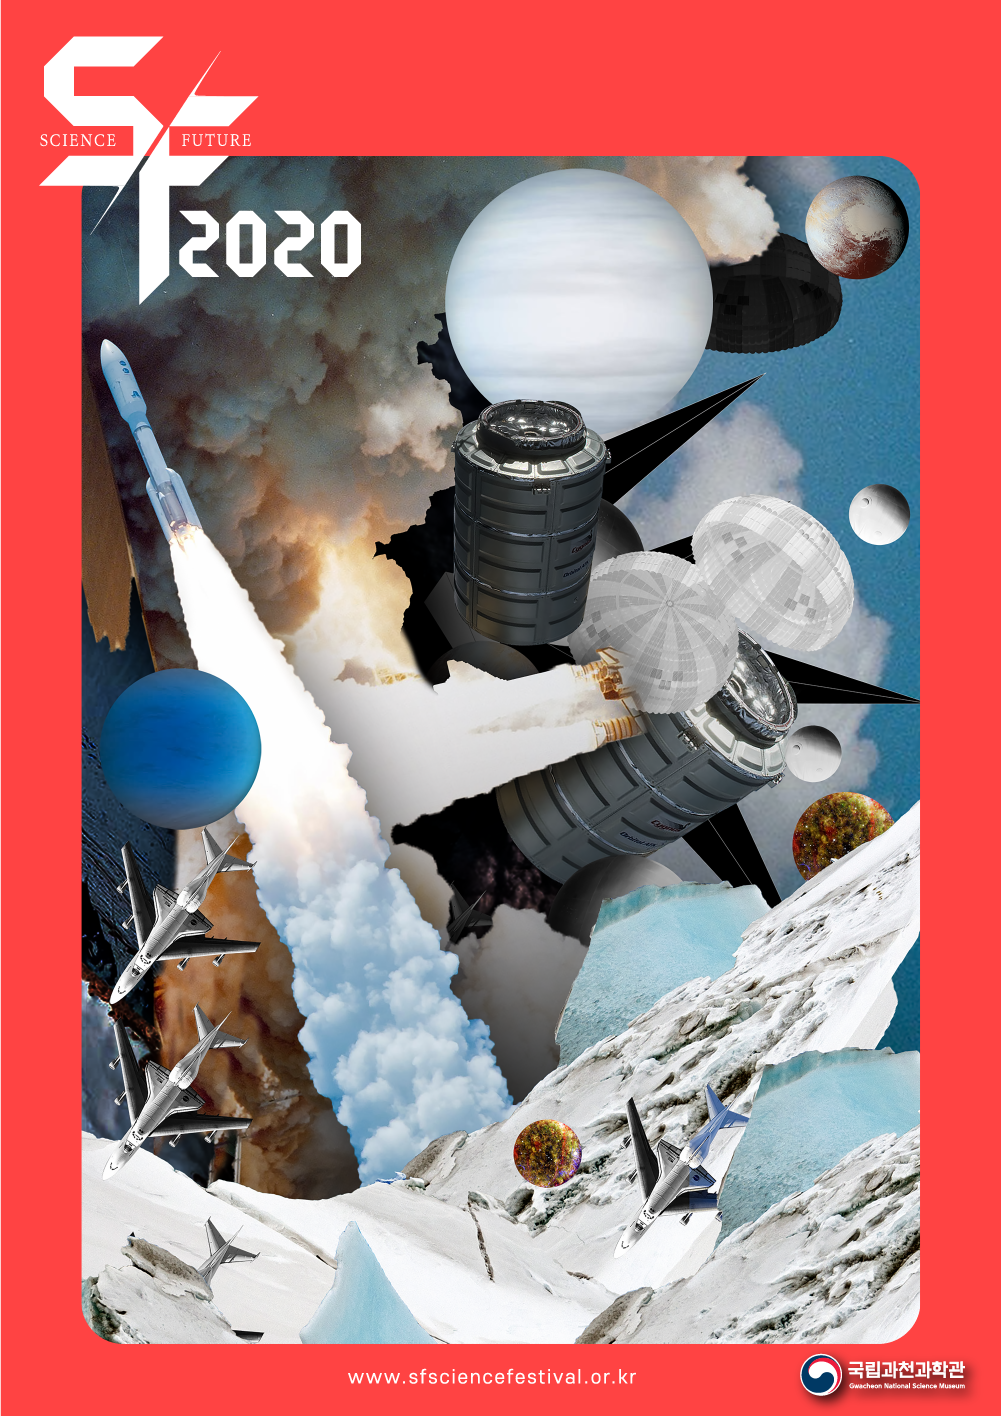
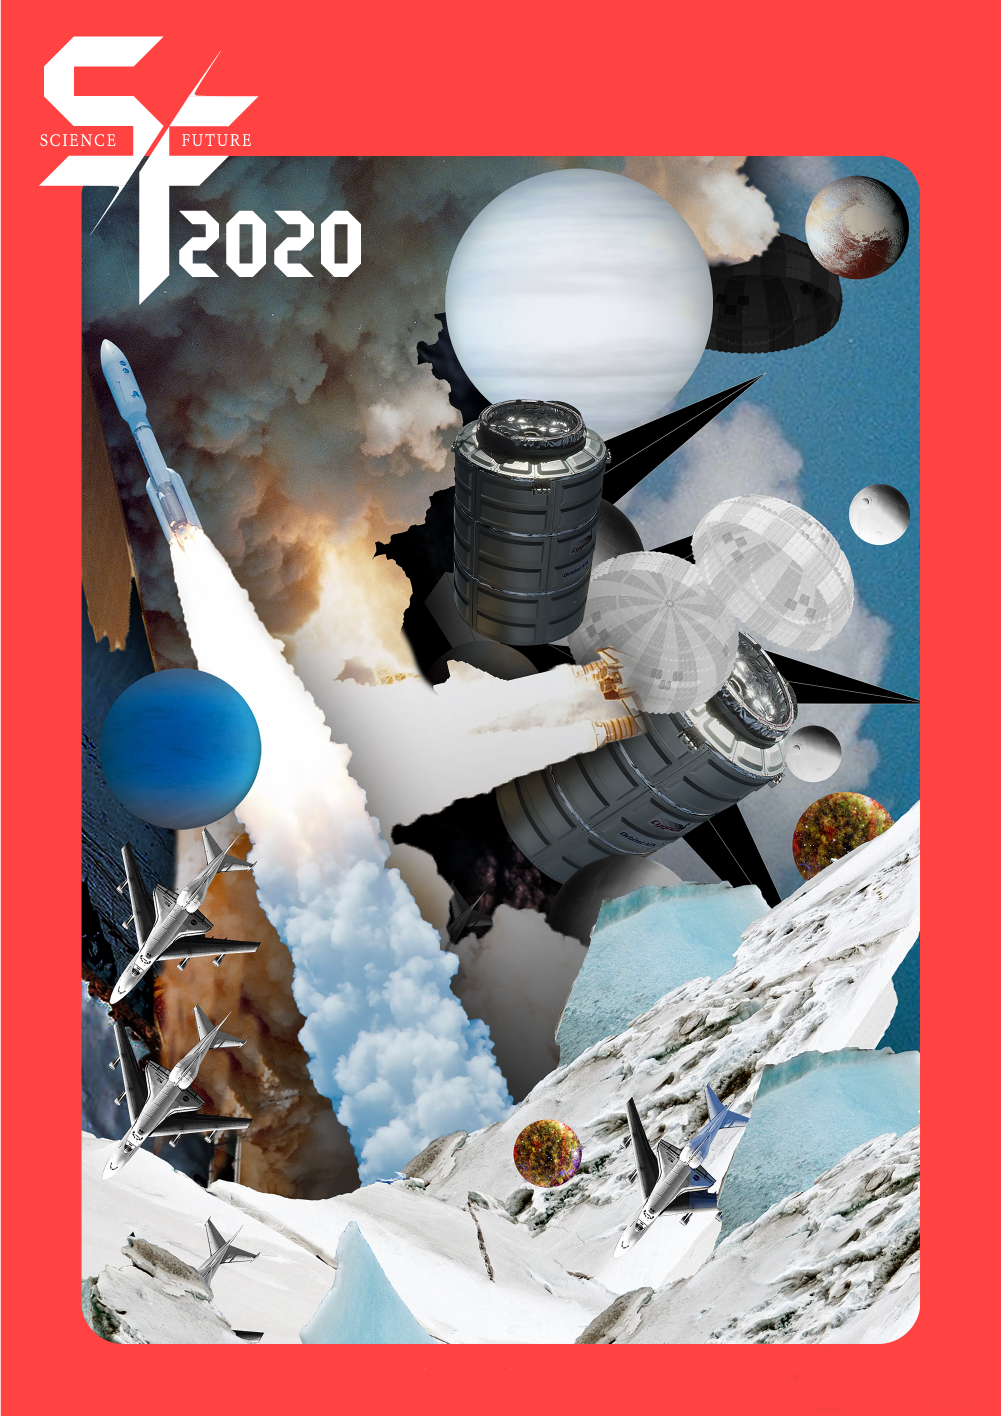
add

diff --git a/new_poster/index.html b/new_poster/index.html
@@ -28,6 +28,7 @@ img{
 }
 .img12{
     width: 100%;
+    height: 100%
 }
 .img11{
     top: 58.8%;
@@ -56,6 +57,7 @@ img{
     left: 95%;
     width: 1.8%;
     top: 34%;
+    z-index: 1000000;
 }
 .img5{
     left: 85.8%;
@@ -97,6 +99,13 @@ img{
 }
 .button, .img12{
     opacity: 1
+}
+.upperlayer{
+    z-index: 1000000;
+    right: 0;
+    bottom: 0;
+    width: 100%;
+    opacity: 1;
 }
 .button1_in,
 .button2_in,
@@ -170,6 +179,7 @@ img{
 </script>
 <!-- <img class="whole" src="whole.png"> -->
 <div class="wrapper">
+    <img class="upperlayer" src="upperlayer-02.png">
     <img class="img12" src="12.png">
     <img class="button button1 img11" src="11.png">
     <img class="button button2 img10" src="10.png">
@@ -186,7 +196,6 @@ img{
     <img class="img3" src="3.png">
     <img class="img2" src="2.png">
     <img class="img1" src="1.png">
-    <img class="bottom" src="bottom-01.png">
 </div>
 </body>
 </html>
